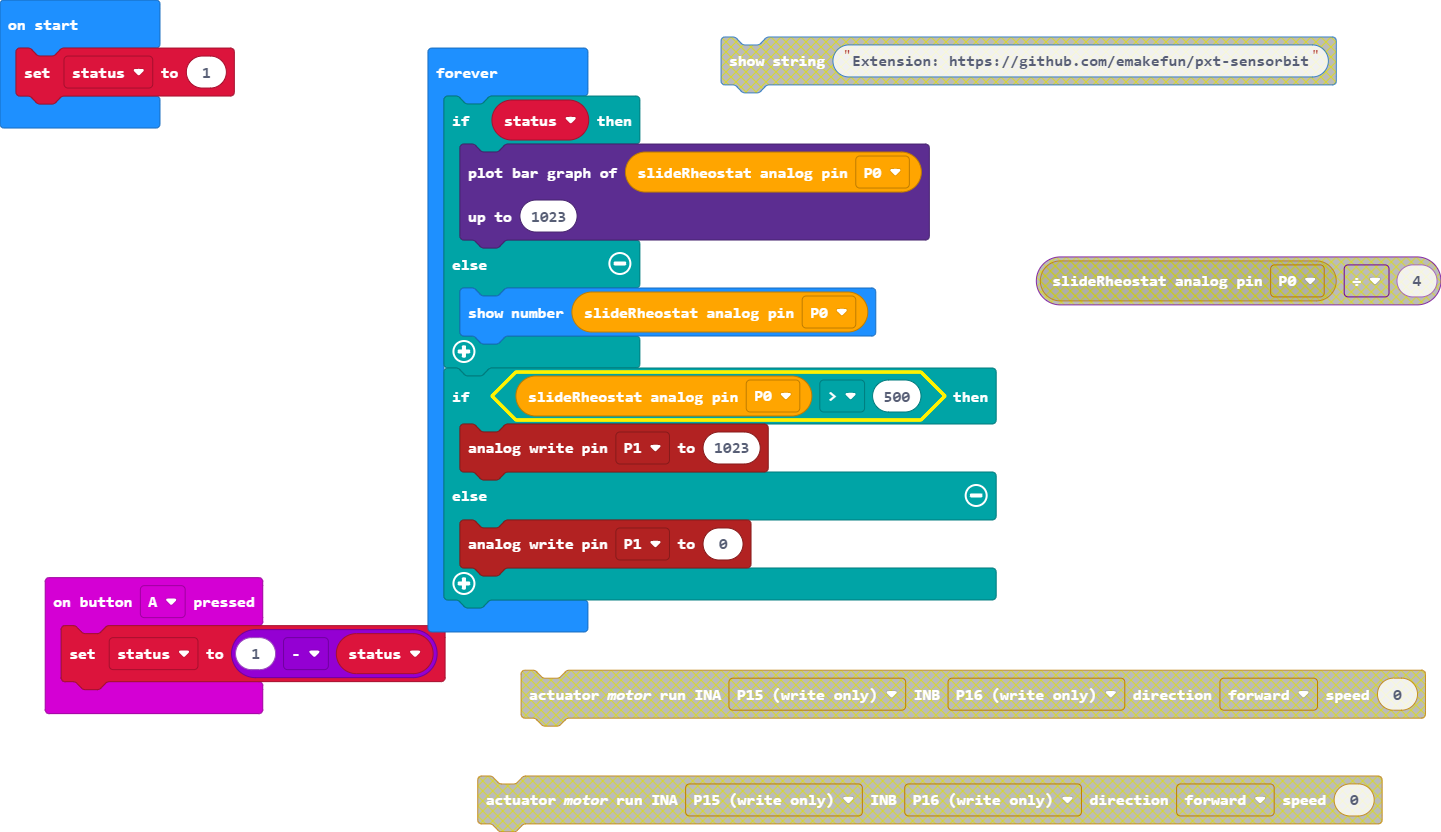
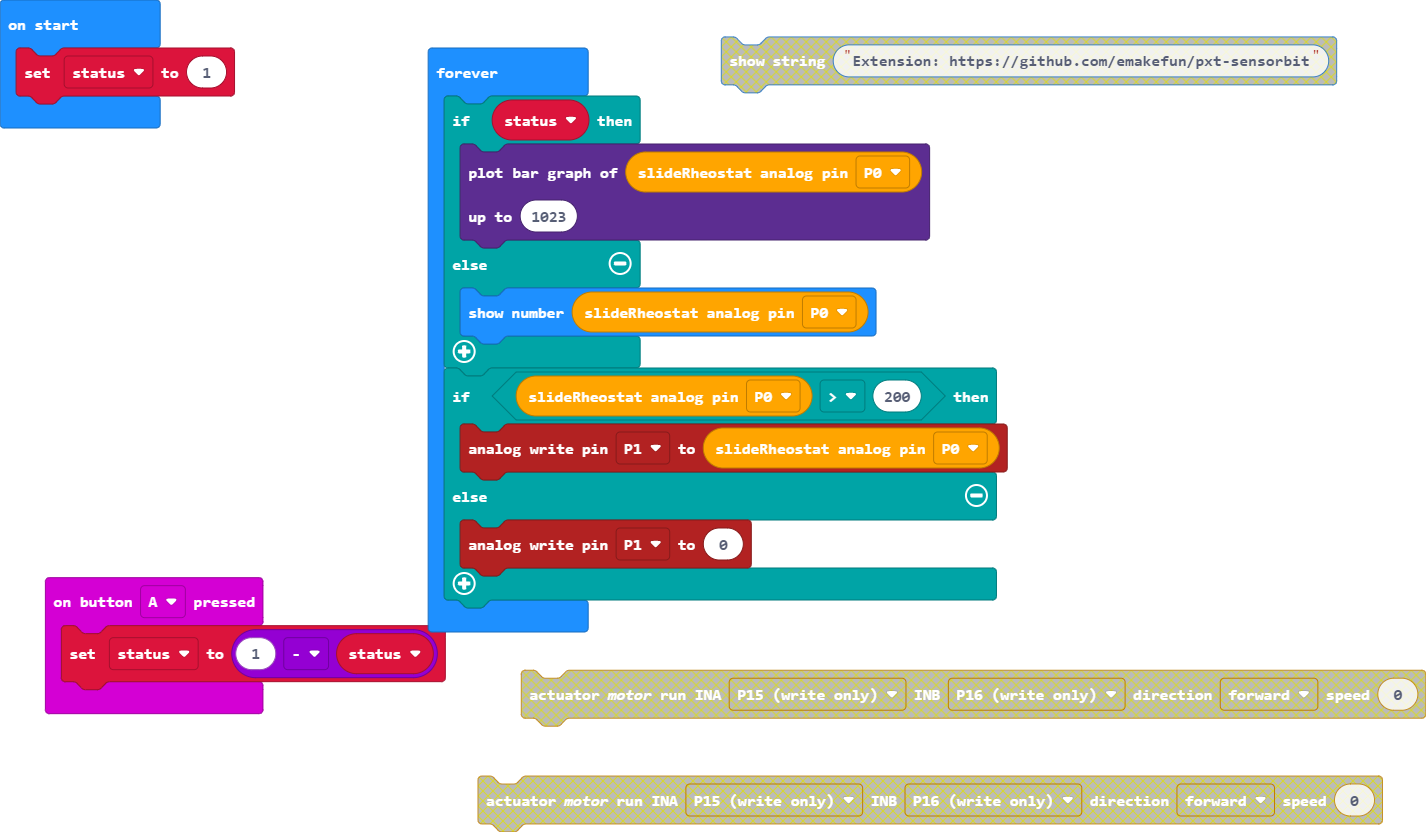
Update main.blocks, main.ts

diff --git a/main.ts b/main.ts
@@ -12,8 +12,8 @@ basic.forever(function () {
     } else {
         basic.showNumber(sensors.slideRheostat(AnalogPin.P0))
     }
-    if (sensors.slideRheostat(AnalogPin.P0) > 500) {
-        pins.analogWritePin(AnalogPin.P1, 1023)
+    if (sensors.slideRheostat(AnalogPin.P0) > 200) {
+        pins.analogWritePin(AnalogPin.P1, sensors.slideRheostat(AnalogPin.P0))
     } else {
         pins.analogWritePin(AnalogPin.P1, 0)
     }
